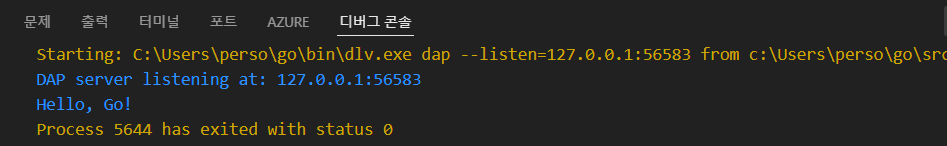
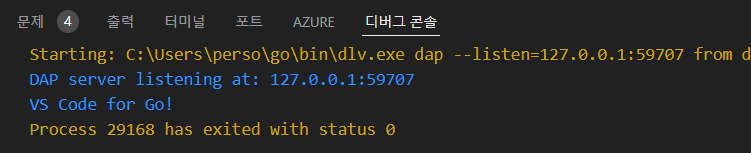
고고!

diff --git a/go-app/main.go b/go-app/main.go
@@ -1,0 +1,8 @@
+package main
+
+import "fmt"
+
+func main() {
+    name := "Go!"
+    fmt.Println("VS Code for", name)
+}

diff --git a/README.md b/README.md
@@ -34,30 +34,37 @@ Go언어 하나로 퉁치기!
 	- 출력 탭 확인, 모두 설치 후 [info] All tools successfully installed. You are ready to Go. :) 표시되면 완료
 
 
-### GO 우선 환경
+### GO 개발환경 시작해보기
 - GOPATH 설정 경로에 bin, pkg, src 폴더를 생성
 	- echo %GOPATH% 로 확인 -> %USERPROFILE%\go
 
-- Visual Studio에 src 폴더를 새 창으로 열기
-
-- 프로젝트 실행
-	- 명령 프롬프트 > Go: Initialize go.mod 선택
-	- Enter module name > hugo83.com/hello
-	- go.mod 파일 확인
+- Visual Studio Code 실행
+	- go-app 폴더 생성
 	- main.go 생성
-
+	- 터미널에서 명령어 실행
+		```shell
+		PS D:\01_Programming\100_HugoBank\Mine\study-go> go mod init go-app
+		go: creating new go.mod: module go-app
+		go: to add module requirements and sums:
+				go mod tidy
+		```
+	- go.mod 파일 생성 확인
+	- main.go 에 코드 작성
 		```go
 		package main
 
-		import (
-			"fmt"
-		)
+		import "fmt"
 
 		func main() {
-			fmt.Println("Hello, Go!")
+			name := "Go!"
+			fmt.Println("VS Code for", name)
 		}
 		```
-
-	- Ctrl + F5 실행
+	- Ctrl + F5로 실행
 
 		<img src="https://raw.githubusercontent.com/hugoMGSung/study-go/main/images/go003.png" width="730">
+
+- 디버깅
+	- 브레이크포인트 토글 후 F5 실행
+
+		<img src="https://raw.githubusercontent.com/hugoMGSung/study-go/main/images/go004.png" width="730">
